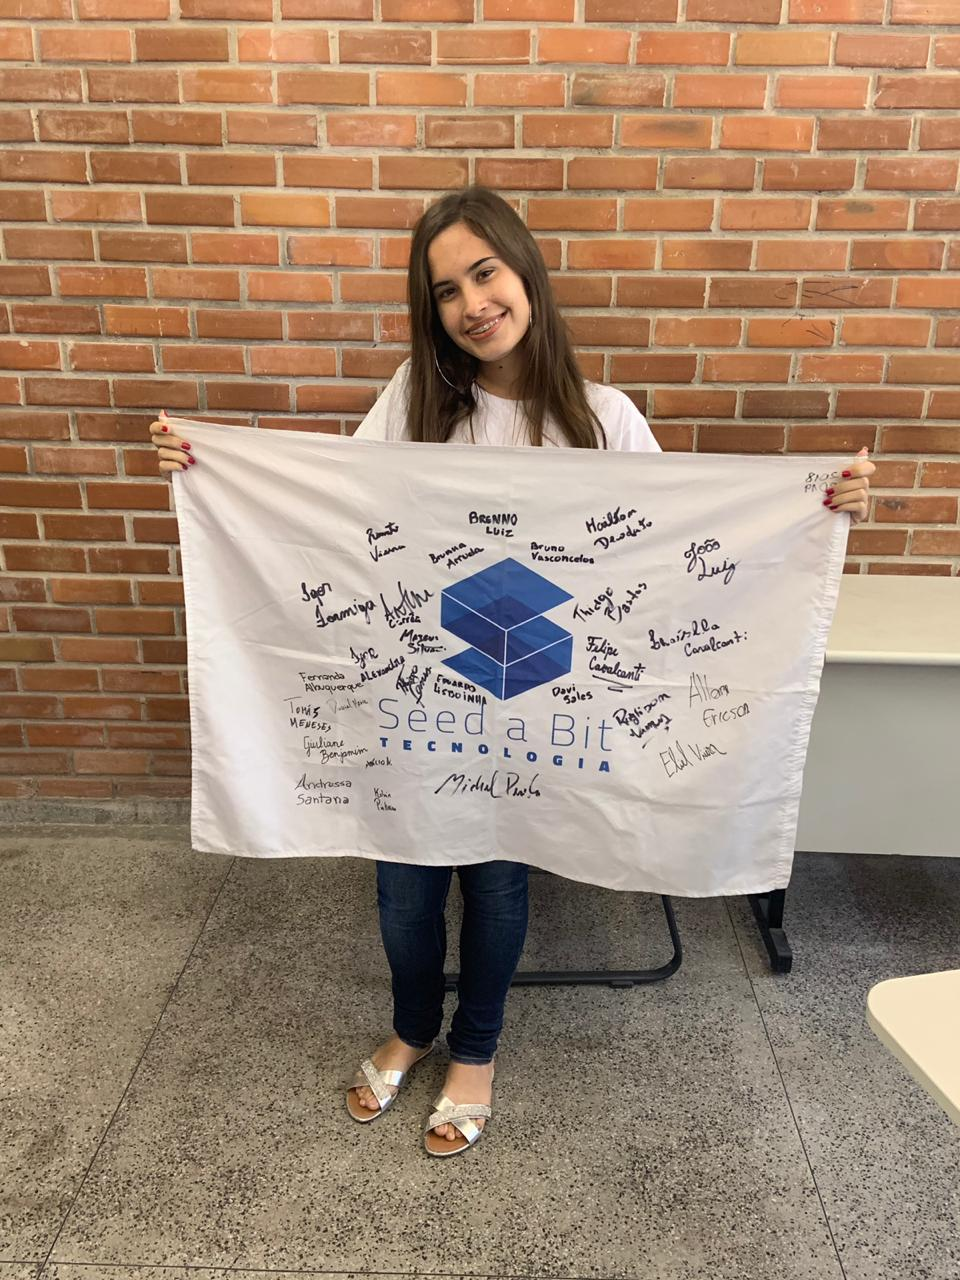
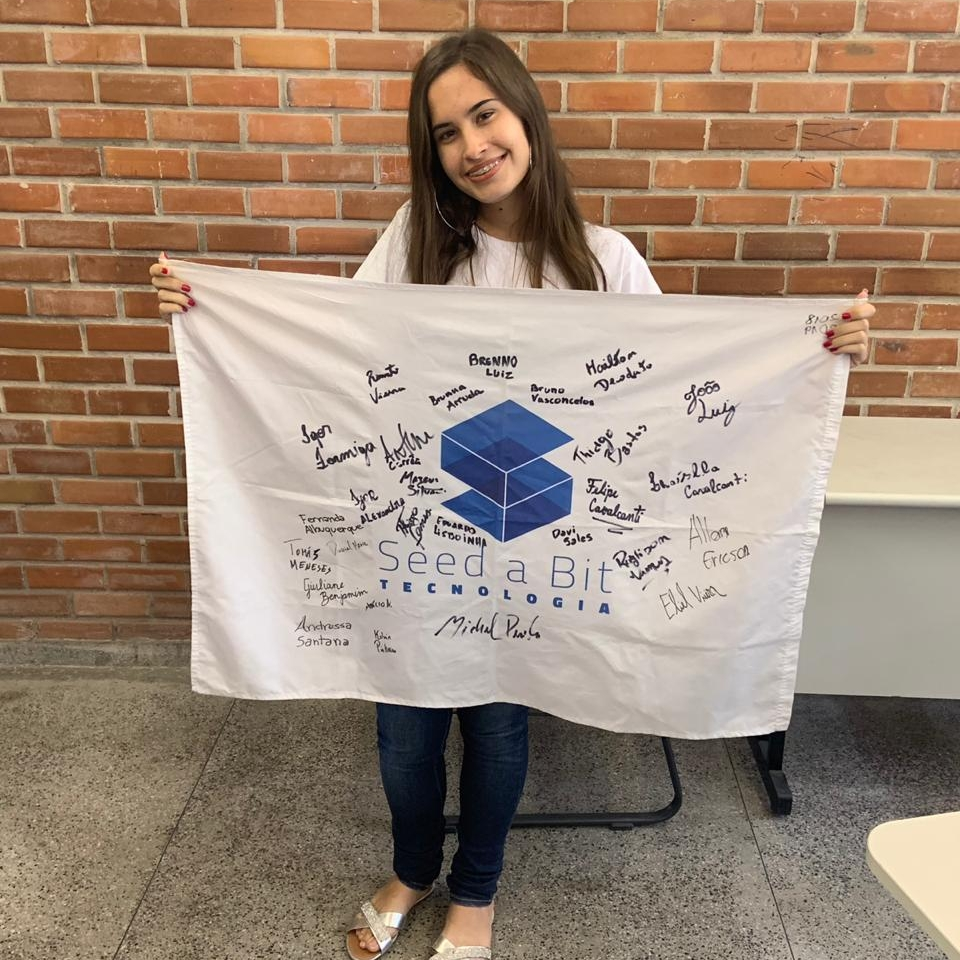
imagens ajustadas e font do footer

diff --git a/src/index.html b/src/index.html
@@ -52,11 +52,11 @@
             </div>
             <div class="col-sm p-4 text-center border border-white bg text-white">
               <p>TRAINEE GERAL</p>
-              <P>27 a 10/Maio</P>
+              <P>27/Abril - 10/Maio</P>
             </div>
             <div class="col-sm p-4 text-center border border-white bg text-white">
               <p>TRAINEE DE ÁREA</p>
-              <p>11 a 27/Maio</p>
+              <p>11/Maio - 27/Maio</p>
             </div>
             <div class="col-sm p-4 text-center border border-white bg text-white">
               <p>RESULTADO FINAL</p>
@@ -81,7 +81,7 @@
           a cultura empreendedora aliada a tecnologia dentro do espaço universitário.
         </p>
         <h1><strong>Movimento Empresa</strong></h1>
-        <p class="ml-4" style="font-style: italic;">
+        <p class="ml-4">
           Somos a empre júnior de tecnologia da informação da Universidade Federal Rural de
           Pernambuco, formada por estudantes e sem fins lucrativos, buscamos o aprimoramento dos 
           alunos do curso de graduação através da realização de projetos e da vivência empresarial,
@@ -104,7 +104,7 @@
 
   <h1 class="mt-4 ml-3 mb-4 font-weight-bold">O que as pessoas tem a dizer sobre nós</h1>
 
-  <div class="row p-4 border-top border-bottom border-dark" style="min-height: 600px;">
+  <div class="row p-4 border-top border-bottom border-dark">
 
     <div class="col-md-7 ">
       <img src="../assets/rel-icon.png" style="max-width: 75px;">
@@ -132,7 +132,7 @@
 
       </div>
 
-      <div class="posbutton " >
+      <div class="posbutton mt-2" >
 
         <button href="#carouselExampleControls" id="bt1" >
            <i class="fas fa-arrow-left" style="color: aliceblue;"></i>
@@ -180,7 +180,7 @@
 
    <!--Duvidas frequentes-->
 
-   <div class="container-fluid">
+   <div class="container-fluid ">
      <div class="mt-4 pl-4 ">
       <h1 class="mb-4"><b>Duvidas frequentes</b></h1>
       <h2 class="colorText">A Seed a Bit paga algum tipo de contraprestação aos membros?</h2>
@@ -245,24 +245,24 @@
             <span style="color: white;">
             <i class="fas fa-phone-alt" style="font-size: 15px;"> 
               
-                (81) 3320-6066
+                <span>(81) 3320-6066</span>
 
             </i>
           </span>
           </li>
 
           <li>
-            <span style="font-size: 20px; color: white;">
+            <span style="color: white;">
              <i class="fas fa-envelope" style="font-size: 15px;">
-                 contato@seedabit.org.br
+              <span>contato@seedabit.org.br</span>
               </i>
              </span>
           </li>
           <li>
             <span style="color: white;">
-            <i class="fas fa-map-marker-alt" style="font-size: 16px;">
-                Rua Dom Manoel de Medeiros, S/N<br>
-                Dois Irmãos - CEP:52171-900 - Recife/PE
+            <i class="fas fa-map-marker-alt" style="font-size: 15px;">
+              <span>Rua Dom Manoel de Medeiros, S/N<br>
+                Dois Irmãos - CEP:52171-900 - Recife/PE</span>
             </i>
             </span>
           </li>
@@ -273,19 +273,19 @@
       <div class="col-md-3 mt-5 ">
         <ul class="list-unstyled redeslogo mr-4 ">
           <li>
-            <a href="https://www.facebook.com/seedabit" style="font-size: 30px;" style="color: white;" class="m-3">
+            <a href="https://www.facebook.com/seedabit" target="block" style="font-size: 30px;" style="color: white;" class="m-3">
               <i class="fab fa-facebook-f" style="color: white;"></i>
             </a>
 
-            <a href="https://br.linkedin.com/company/seedabittecnologia" style="font-size: 30px;" class="m-3">
+            <a href="https://br.linkedin.com/company/seedabittecnologia" target="block" style="font-size: 30px;" class="m-3">
               <i class="fab fa-linkedin-in" style="color: white;" ></i>
             </a>
 
-            <a href="https://www.instagram.com/seedabittecnologia" style="font-size: 30px;" class="m-3">
+            <a href="https://www.instagram.com/seedabittecnologia" target="block" style="font-size: 30px;" class="m-3">
               <i  class="fab fa-instagram" style="color: white;"></i>
             </a>
 
-            <a href=" https://medium.com/seedabit" style="font-size: 30px;" class="m-3">
+            <a href=" https://medium.com/seedabit" target="block" style="font-size: 30px;" class="m-3">
               <i class="fab fa-medium-m" style="color: white;"></i>
               
             </a>

diff --git a/src/custom.css b/src/custom.css
@@ -23,11 +23,10 @@
 .bg {
  background-color: rgb(22, 65, 158);
 }
-img{
-    background-color:rgb(80, 132, 235);
-}
+
 .imgQuem{
     text-align: center;
+    min-width: auto;
 }
 .colorfooter{
     background-color: rgb(22, 65, 158);
@@ -65,7 +64,7 @@ button{
 .imgProjetos{
     max-width: 450px;
     max-height: 250px;
-    
+    border: solid 2px black;
 }
 .alin {
 text-align: center;
